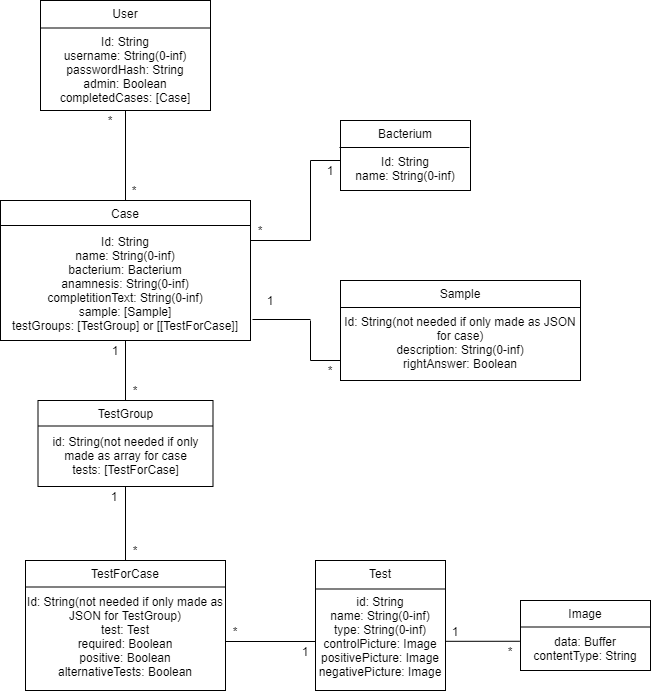
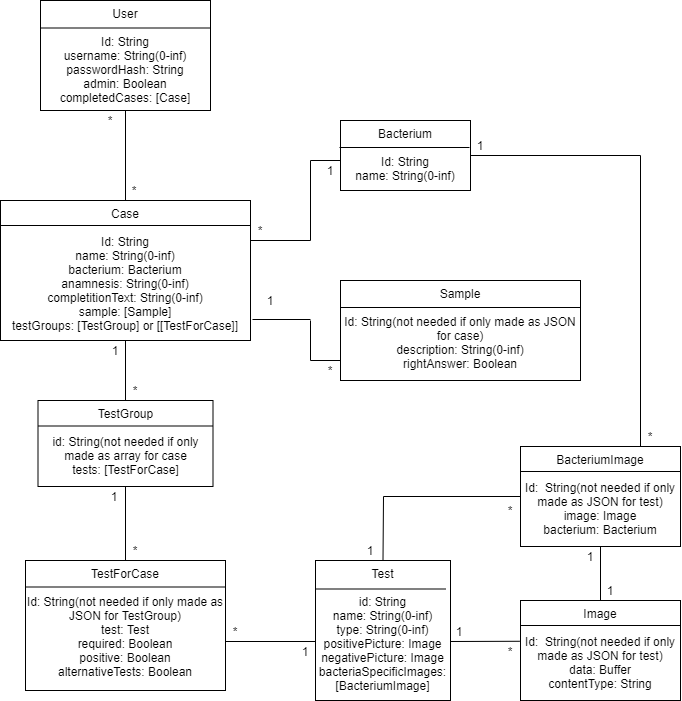
Add test schema, test adding and getting tests to backend and update database plan

diff --git a/backend/controllers/test.js b/backend/controllers/test.js
@@ -1,0 +1,51 @@
+const testRouter = require('express').Router()
+const Test = require('../models/test')
+const Bacterium = require('../models/bacterium')
+const multer = require('multer')
+const fileFilter = (req, file, cb) => {
+    if (file.mimetype === 'image/jpeg' || file.mimetype === 'image/png') {
+        cb(null, true)
+    } else {
+        cb(null, false)
+    }
+}
+const storage = multer.memoryStorage()
+const upload = multer({ storage, fileFilter })
+
+testRouter.get('/', async (request, response) => {
+    if (request.user) {
+        const tests = await Test.find({}).populate('Bacterium', { name: 1 })
+        response.json(tests.map(test => test.toJSON()))
+    } else {
+        throw Error('JsonWebTokenError')
+    }
+})
+
+testRouter.post('/', upload.fields([{ name: 'positiveResultImage', maxCount: 1 }, { name: 'negativeResultImage', maxCount: 1 }, { name: 'bacteriaSpecificImage', maxCount: 100 }]), async (request, response) => {
+    if (request.user.admin) {
+        try {
+            const test = new Test({
+                name: request.body.name,
+                type: request.body.type,
+                positiveResultImage: { data: Buffer.from(request.files.positiveResultImage[0].buffer).toString('base64'), contentType: request.files.positiveResultImage[0].mimetype },
+                negativeResultImage: { data: Buffer.from(request.files.negativeResultImage[0].buffer).toString('base64'), contentType: request.files.negativeResultImage[0].mimetype },
+                bacteriaSpecificImages: []
+            })
+            if (request.files.bacteriaSpecificImages) {
+                request.files.bacteriaSpecificImages.forEach(async (file) => {
+                    const bacterium = await Bacterium.findById(file.fieldname)
+                    test.bacteriaSpecificImages.push({ data: Buffer.from(file.buffer).toString('base64'), contentType: file.mimetype, bacterium })
+                })
+            }
+            const savedTest = await test.save()
+            return response.status(201).json(savedTest)
+        } catch (error) {
+            return response.status(400).json({ error: error.message })
+        }
+    } else {
+        throw Error('JsonWebTokenError')
+    }
+})
+
+
+module.exports = testRouter

diff --git a/backend/models/test.js b/backend/models/test.js
@@ -1,0 +1,57 @@
+const mongoose = require('mongoose')
+const uniqueValidator = require('mongoose-unique-validator')
+const testSchema = mongoose.Schema({
+    name: {
+        type: String,
+        minlength: [2, 'Testin nimen tulee olla vähintään 2 merkkiä pitkä.'],
+        maxlength: [100, 'Testin nimen tulee olla enintään 100 merkkiä pitkä.'],
+        required: true,
+        unique: [true, 'Testin nimen tulee olla uniikki.']
+    },
+    type: {
+        type: String,
+        minlength: [2, 'Testin tyypin tulee olla vähintään 2 merkkiä pitkä.'],
+        maxlength: [100, 'Testin tyypin tulee olla enintään 100 merkkiä pitkä.'],
+        required: true,
+    },
+    positiveResultImage: {
+        data: {
+            type: Buffer
+        },
+        contentType: {
+            type: String
+        }
+    },
+    negativeResultImage: {
+        data: {
+            type: Buffer
+        },
+        contentType: {
+            type: String
+        }
+    },
+    bacteriaSpecificImages: [{
+        bacterium: {
+            type: mongoose.Schema.Types.ObjectId,
+            ref: 'Bacterium',
+        },
+        data: {
+            type: Buffer
+        },
+        contentType: {
+            type: String
+        }
+    }]
+})
+
+testSchema.set('toJSON', {
+    transform: (document, returnedObject) => {
+        returnedObject.id = returnedObject._id.toString()
+        delete returnedObject._id
+        delete returnedObject.__v
+    }
+})
+testSchema.plugin(uniqueValidator, { message: 'Testin nimen tulee olla uniikki.' })
+const Test = mongoose.model('Test', testSchema)
+
+module.exports = Test

diff --git a/backend/app.js b/backend/app.js
@@ -48,7 +48,7 @@ if (process.env.NODE_ENV === 'development' || process.env.NODE_ENV === 'test') {
         })
     })
 
-} else if (process.env.NODE_ENV === 'production' ){
+} else if (process.env.NODE_ENV === 'production') {
     mongoose.set('useFindAndModify', false)
     mongoose.set('useCreateIndex', true)
     mongoose.connect(config.MONGODB_URI, { useNewUrlParser: true, useUnifiedTopology: true })
@@ -64,5 +64,7 @@ const userRouter = require('./controllers/user')
 app.use('/api/user', userRouter)
 const bacteriumRouter = require('./controllers/bacterium')
 app.use('/api/bacteria', bacteriumRouter)
+const testRouter = require('./controllers/test')
+app.use('/api/test', testRouter)
 app.use(security.authorizationHandler)
 module.exports = app
